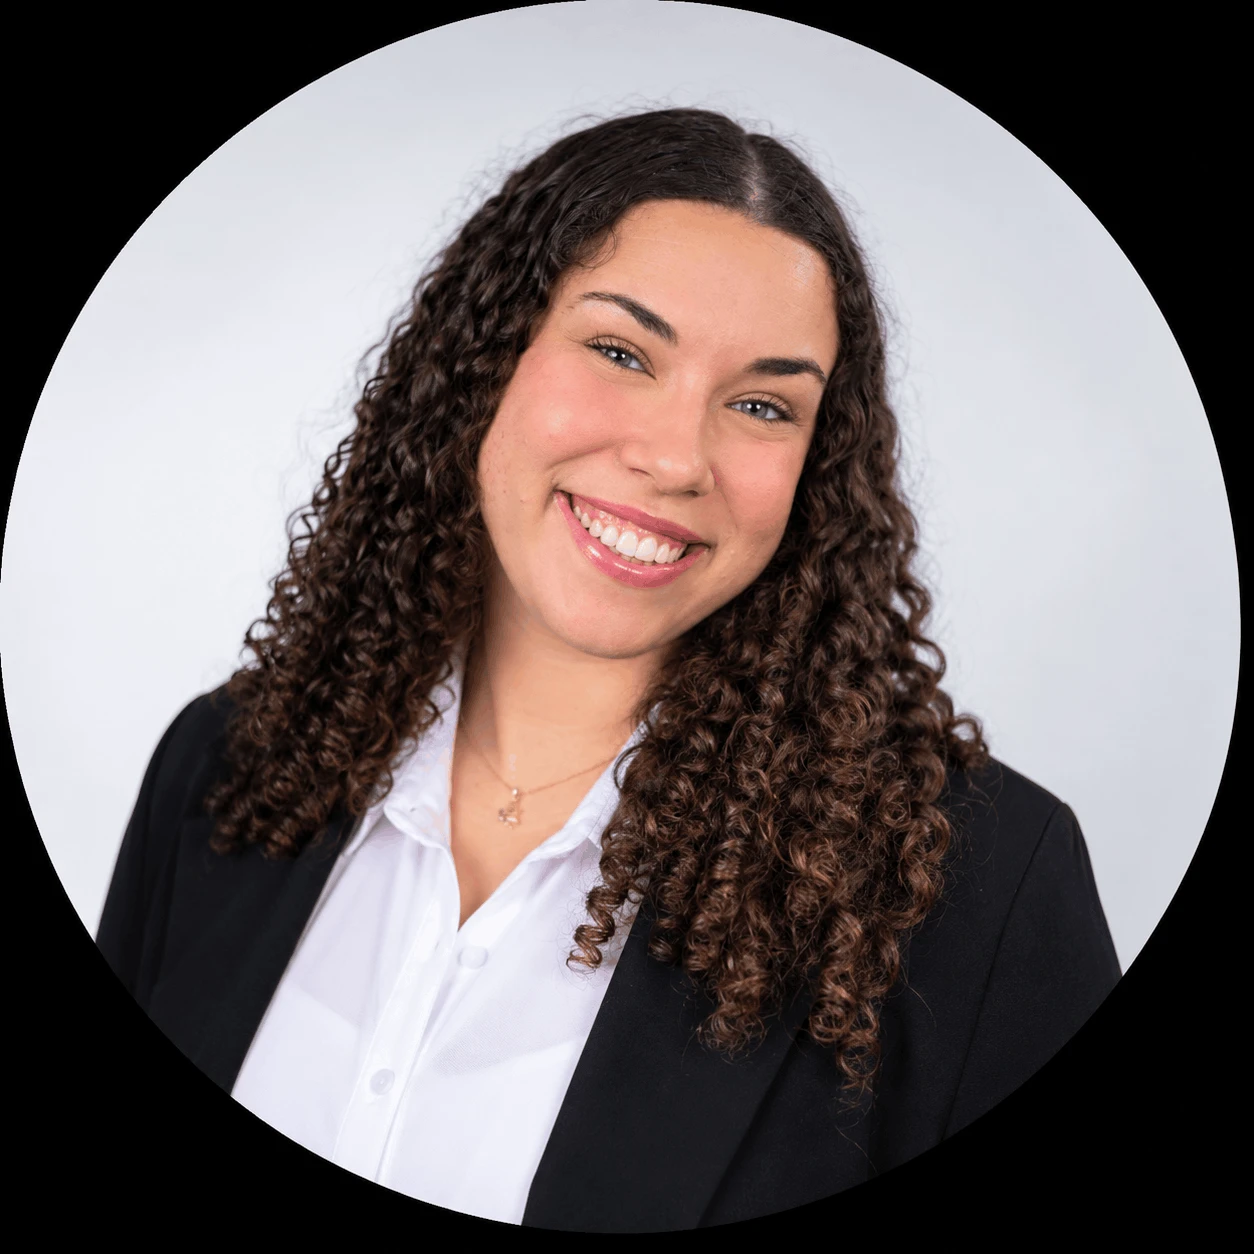
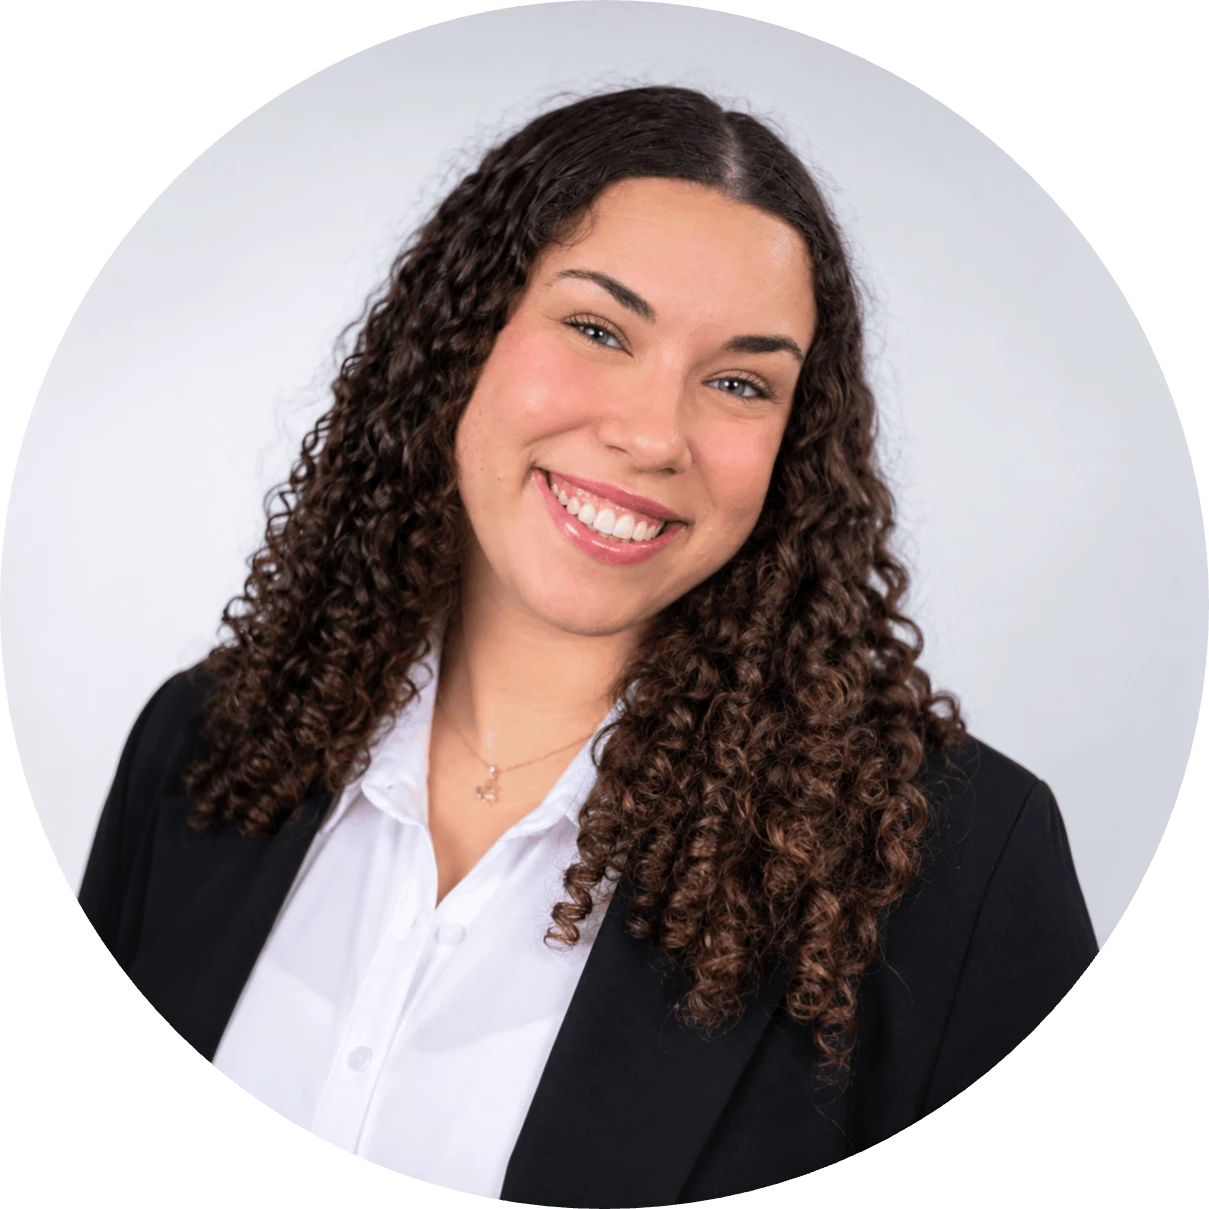
Add summary nav tab, increase spacing between sections

diff --git a/app/page.tsx b/app/page.tsx
@@ -65,70 +65,83 @@ export default function Home() {
     <main id="top" className="pt-20">
       <ScrollProgress />
 
-      {/* Hero — תמונה + שם + CTAs בלבד (ללא תיחום, תופס את העין) */}
+      {/* Hero — לוגו (ימין) + שם ו-CTAs (שמאל) */}
       <section className="relative">
-        <div className="mx-auto flex max-w-4xl flex-col items-center gap-7 px-4 py-20 text-center sm:py-28">
-          <div className="fade-up float-y" style={{ animationDelay: "60ms" }}>
+        <div className="mx-auto flex max-w-6xl flex-col items-center justify-center gap-12 px-4 py-20 sm:py-28 md:flex-row md:justify-between md:gap-8">
+          {/* לוגו — צד ימין בעברית / שמאל באנגלית */}
+          <div className="fade-up float-y shrink-0" style={{ animationDelay: "60ms" }}>
             <Image
-              src="/sivan.webp"
-              alt={t.hero.photoAlt}
-              width={1254}
-              height={1254}
+              src="/logo-mark.png"
+              alt={t.hero.logoAlt}
+              width={477}
+              height={279}
               priority
-              className="h-40 w-40 rounded-full border-4 border-white object-cover object-top shadow-xl ring-1 ring-[#e7dcea] sm:h-52 sm:w-52 md:h-60 md:w-60 dark:border-white/10"
+              className="h-auto w-60 sm:w-72 md:w-80"
             />
           </div>
 
-          <h1
-            className="fade-up text-5xl font-extrabold tracking-tight sm:text-6xl md:text-7xl"
-            style={{ animationDelay: "180ms" }}
-          >
-            <span className="animate-gradient bg-gradient-to-l from-[#8E72AE] via-[#7E6A9E] to-[#C2A368] bg-clip-text text-transparent">
-              {t.hero.name}
-            </span>
-          </h1>
-
-          <div
-            className="fade-up flex flex-col flex-wrap items-center justify-center gap-3 sm:flex-row"
-            style={{ animationDelay: "340ms" }}
-          >
-            <a href="#projects" className="btn-glass btn-glass-primary w-full sm:w-auto">
-              {t.hero.ctaProjects}
-            </a>
-            <a
-              href="/sivan-lasri-cv.pdf"
-              download
-              className="btn-glass btn-glass-ghost group w-full sm:w-auto"
+          {/* שם + CTAs — צד שני */}
+          <div className="text-center md:text-start">
+            <h1
+              className="fade-up text-5xl font-extrabold tracking-tight sm:text-6xl md:text-7xl"
+              style={{ animationDelay: "180ms" }}
             >
-              <svg
-                className="h-5 w-5 transition-transform group-hover:translate-y-0.5"
-                fill="none"
-                stroke="currentColor"
-                strokeWidth={1.8}
-                viewBox="0 0 24 24"
-                aria-hidden="true"
+              <span className="animate-gradient bg-gradient-to-l from-[#8E72AE] via-[#7E6A9E] to-[#C2A368] bg-clip-text text-transparent">
+                {t.hero.name}
+              </span>
+            </h1>
+
+            <div
+              className="fade-up mt-8 flex flex-col flex-wrap items-center justify-center gap-3 sm:flex-row md:justify-start"
+              style={{ animationDelay: "340ms" }}
+            >
+              <a href="#projects" className="btn-glass btn-glass-primary w-full sm:w-auto">
+                {t.hero.ctaProjects}
+              </a>
+              <a
+                href="/sivan-lasri-cv.pdf"
+                download
+                className="btn-glass btn-glass-ghost group w-full sm:w-auto"
               >
-                <path strokeLinecap="round" strokeLinejoin="round" d="M12 3v12m0 0l-4-4m4 4l4-4M4 17v2a2 2 0 002 2h12a2 2 0 002-2v-2" />
-              </svg>
-              {t.hero.ctaCv}
-            </a>
-            <a href="#contact" className="btn-glass btn-glass-ghost w-full sm:w-auto">
-              {t.hero.ctaContact}
-            </a>
+                <svg
+                  className="h-5 w-5 transition-transform group-hover:translate-y-0.5"
+                  fill="none"
+                  stroke="currentColor"
+                  strokeWidth={1.8}
+                  viewBox="0 0 24 24"
+                  aria-hidden="true"
+                >
+                  <path strokeLinecap="round" strokeLinejoin="round" d="M12 3v12m0 0l-4-4m4 4l4-4M4 17v2a2 2 0 002 2h12a2 2 0 002-2v-2" />
+                </svg>
+                {t.hero.ctaCv}
+              </a>
+              <a href="#contact" className="btn-glass btn-glass-ghost w-full sm:w-auto">
+                {t.hero.ctaContact}
+              </a>
+            </div>
           </div>
         </div>
       </section>
 
-      {/* אודות — תקציר */}
-      <section id="about-intro" className="mx-auto max-w-4xl px-4 py-8 sm:px-6 sm:py-12">
+      {/* אודות — תמונה + תקציר */}
+      <section id="about-intro" className="mx-auto max-w-5xl px-4 py-12 sm:px-6 sm:py-20">
         <Reveal>
-          <div className="rounded-2xl border border-[#E7DFD6] bg-white/60 p-6 text-center shadow-sm backdrop-blur-sm sm:p-9 dark:border-white/10 dark:bg-white/[0.04]">
-            <p className="mb-3 text-lg font-semibold text-[#6E5B86] sm:text-xl dark:text-[#c3b0dd]">
-              {t.hero.role}
-            </p>
-            <p className="mx-auto max-w-2xl text-base leading-relaxed text-gray-600 sm:text-lg dark:text-gray-300">
-              {t.hero.bio}
-            </p>
+          <div className="flex flex-col items-center gap-8 rounded-2xl border border-[#E7DFD6] bg-white/60 p-6 text-center shadow-sm backdrop-blur-sm sm:p-9 md:flex-row md:gap-10 md:text-start dark:border-white/10 dark:bg-white/[0.04]">
+            <Image
+              src="/sivan.webp"
+              alt={t.hero.photoAlt}
+              width={1209}
+              height={1209}
+              className="h-40 w-40 shrink-0 rounded-full border-4 border-white object-cover object-top shadow-lg ring-1 ring-[#e7dcea] sm:h-48 sm:w-48 dark:border-white/10"
+            />
+            <div>
+              <p className="mb-3 text-lg font-semibold text-[#6E5B86] sm:text-xl dark:text-[#c3b0dd]">
+                {t.hero.role}
+              </p>
+              <p className="text-base leading-relaxed text-gray-600 sm:text-lg dark:text-gray-300">
+                {t.hero.bio}
+              </p>
+            </div>
           </div>
         </Reveal>
         <div className="mt-8">
@@ -137,7 +150,7 @@ export default function Home() {
       </section>
 
       {/* פרויקטים */}
-      <section id="projects" className="max-w-6xl mx-auto px-4 sm:px-6 py-12 sm:py-16">
+      <section id="projects" className="max-w-6xl mx-auto px-4 sm:px-6 py-16 sm:py-24">
         <SectionHeading
           eyebrow={t.eyebrows.projects}
           heading={t.projects.heading}
@@ -153,7 +166,7 @@ export default function Home() {
       </section>
 
       {/* ניסיון */}
-      <section id="experience" className="max-w-6xl mx-auto px-4 sm:px-6 py-12 sm:py-16">
+      <section id="experience" className="max-w-6xl mx-auto px-4 sm:px-6 py-16 sm:py-24">
         <SectionHeading
           eyebrow={t.eyebrows.experience}
           heading={t.experience.heading}
@@ -163,7 +176,7 @@ export default function Home() {
       </section>
 
       {/* כישורים ורקע */}
-      <section id="about" className="max-w-6xl mx-auto px-4 sm:px-6 py-12 sm:py-16">
+      <section id="about" className="max-w-6xl mx-auto px-4 sm:px-6 py-16 sm:py-24">
         <SectionHeading
           eyebrow={t.eyebrows.about}
           heading={t.about.heading}
@@ -223,7 +236,7 @@ export default function Home() {
       </section>
 
       {/* צרו קשר */}
-      <section id="contact" className="max-w-6xl mx-auto px-4 sm:px-6 py-12 sm:py-20">
+      <section id="contact" className="max-w-6xl mx-auto px-4 sm:px-6 py-16 sm:py-28">
         <SectionHeading
           eyebrow={t.eyebrows.contact}
           heading={t.contact.heading}

diff --git a/app/components/Navbar.tsx b/app/components/Navbar.tsx
@@ -59,7 +59,7 @@ export default function Navbar() {
 
   // מסמן את הסעיף שנמצא כרגע מול העין
   useEffect(() => {
-    const sections = ["projects", "experience", "about", "contact"]
+    const sections = ["about-intro", "projects", "experience", "about", "contact"]
       .map((id) => document.getElementById(id))
       .filter((el): el is HTMLElement => el !== null);
 
@@ -78,6 +78,7 @@ export default function Navbar() {
   }, []);
 
   const links = [
+    { href: "#about-intro", id: "about-intro", label: t.nav.summary },
     { href: "#projects", id: "projects", label: t.nav.projects },
     { href: "#experience", id: "experience", label: t.nav.experience },
     { href: "#about", id: "about", label: t.nav.about },

diff --git a/app/i18n.ts b/app/i18n.ts
@@ -44,6 +44,7 @@ export type Dictionary = {
   meta: { title: string; description: string };
   nav: {
     name: string;
+    summary: string;
     projects: string;
     experience: string;
     about: string;
@@ -84,6 +85,7 @@ const he: Dictionary = {
   },
   nav: {
     name: "סיון לסרי",
+    summary: "תקציר",
     projects: "פרויקטים",
     experience: "ניסיון",
     about: "כישורים ורקע",
@@ -372,6 +374,7 @@ const en: Dictionary = {
   },
   nav: {
     name: "Sivan Lasri",
+    summary: "About Me",
     projects: "Projects",
     experience: "Experience",
     about: "Skills & Background",
